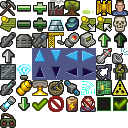
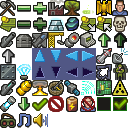
#193 Adds sound and music volume sliders to options.
These sliders do not work yet. Adds two new icons music note and speaker icon.

Changed region(s): [[0.125, 0.875, 0.375, 1.0]]

diff --git a/src/main/java/org/openRealmOfStars/game/States/OptionsView.java b/src/main/java/org/openRealmOfStars/game/States/OptionsView.java
@@ -8,14 +8,17 @@ import javax.swing.Box;
 import javax.swing.BoxLayout;
 import javax.swing.JComboBox;
 
+import org.openRealmOfStars.audio.music.MusicPlayer;
 import org.openRealmOfStars.game.Game;
 import org.openRealmOfStars.game.GameCommands;
 import org.openRealmOfStars.gui.borders.SimpleBorder;
 import org.openRealmOfStars.gui.buttons.SpaceButton;
+import org.openRealmOfStars.gui.icons.Icons;
 import org.openRealmOfStars.gui.infopanel.EmptyInfoPanel;
 import org.openRealmOfStars.gui.infopanel.InfoPanel;
 import org.openRealmOfStars.gui.labels.SpaceLabel;
 import org.openRealmOfStars.gui.panels.BlackPanel;
+import org.openRealmOfStars.gui.panels.SpaceSliderPanel;
 import org.openRealmOfStars.gui.utilies.GuiStatics;
 /**
 *
@@ -55,6 +58,17 @@ public class OptionsView extends BlackPanel {
    * Resolution selector
    */
   private JComboBox<String> resolutionSelection;
+
+  /**
+   * Music volume slider
+   */
+  private SpaceSliderPanel musicSlider;
+
+  /**
+   * Sound volume slider
+   */
+  private SpaceSliderPanel soundSlider;
+
   /**
    * Constructor for OptionsView
    * @param gameFrame Game frame
@@ -104,12 +118,59 @@ public class OptionsView extends BlackPanel {
     resolutionSelection.setForeground(GuiStatics.COLOR_COOL_SPACE_BLUE);
     resolutionSelection.setBorder(new SimpleBorder());
     resolutionSelection.setFont(GuiStatics.getFontCubellan());
+    String actualResolution = game.getWidth() + "x" + game.getHeight();
+    boolean found = false;
+    for (int i = 0; i < resolutions.length; i++) {
+      if (actualResolution.equals(resolutions[i])) {
+        resolutionSelection.setSelectedIndex(i);
+        found = true;
+        break;
+      }
+    }
+    if (!found) {
+      resolutionSelection.setSelectedIndex(resolutions.length - 1);
+    }
     screenPanel.add(resolutionSelection);
     screenPanel.add(Box.createRigidArea(new Dimension(50, 10)));
     label = new SpaceLabel("NOTE: You can also resize game window here for"
         + " custom size.");
     screenPanel.add(label);
+    allOptions.add(Box.createRigidArea(new Dimension(20, 20)));
     allOptions.add(screenPanel);
+    allOptions.add(Box.createRigidArea(new Dimension(20, 20)));
+    InfoPanel musicPanel = new InfoPanel();
+    musicPanel.setTitle("Music Options");
+    musicPanel.setLayout(new BoxLayout(musicPanel, BoxLayout.X_AXIS));
+    label = new SpaceLabel("Music volume:");
+    musicPanel.add(label);
+    musicPanel.add(Box.createRigidArea(new Dimension(10, 10)));
+    musicSlider = new SpaceSliderPanel(
+        GameCommands.COMMAND_MUSIC_VOLUME_DN,
+        GameCommands.COMMAND_MUSIC_VOLUME_UP,
+        Icons.ICON_MUSIC, "Music volume", 0, 100, MusicPlayer.getVolume(),
+        GameCommands.COMMAND_MUSIC_VOLUME, listener);
+    musicSlider.setSliderMajorTick(10);
+    musicSlider.setSliderMinorTick(10);
+    musicPanel.add(musicSlider);
+    allOptions.add(musicPanel);
+    allOptions.add(Box.createRigidArea(new Dimension(20, 20)));
+    InfoPanel soundPanel = new InfoPanel();
+    soundPanel.setTitle("Sound Options");
+    soundPanel.setLayout(new BoxLayout(soundPanel, BoxLayout.X_AXIS));
+    label = new SpaceLabel("Sound volume:");
+    soundPanel.add(label);
+    soundPanel.add(Box.createRigidArea(new Dimension(10, 10)));
+    soundSlider = new SpaceSliderPanel(
+        GameCommands.COMMAND_SOUND_VOLUME_DN,
+        GameCommands.COMMAND_SOUND_VOLUME_UP,
+        Icons.ICON_SOUND, "Sound volume", 0, 100, MusicPlayer.getVolume(),
+        GameCommands.COMMAND_SOUND_VOLUME, listener);
+    soundSlider.setSliderMajorTick(10);
+    soundSlider.setSliderMinorTick(10);
+    soundPanel.add(soundSlider);
+    allOptions.add(soundPanel);
+    allOptions.add(Box.createRigidArea(new Dimension(20,
+        game.getHeight() - 280)));
     base.add(allOptions, BorderLayout.CENTER);
     this.add(base, BorderLayout.CENTER);
   }

diff --git a/src/main/java/org/openRealmOfStars/game/GameCommands.java b/src/main/java/org/openRealmOfStars/game/GameCommands.java
@@ -57,6 +57,36 @@ public final class GameCommands {
   public static final String COMMAND_OPTIONS_VIEW = "OptionsView";
 
   /**
+   * Music volume up
+   */
+  public static final String COMMAND_MUSIC_VOLUME_UP = "OptionsMusicVolumeUp";
+
+  /**
+   * Music volume Down
+   */
+  public static final String COMMAND_MUSIC_VOLUME_DN = "OptionsMusicVolumeDn";
+
+  /**
+   * Music volume
+   */
+  public static final String COMMAND_MUSIC_VOLUME = "OptionsMusicVolume";
+
+  /**
+   * Sound volume up
+   */
+  public static final String COMMAND_SOUND_VOLUME_UP = "OptionsSoundVolumeUp";
+
+  /**
+   * Sound volume Down
+   */
+  public static final String COMMAND_SOUND_VOLUME_DN = "OptionsSoundVolumeDn";
+
+  /**
+   * Sound volume
+   */
+  public static final String COMMAND_SOUND_VOLUME = "OptionsSoundVolume";
+
+  /**
    * End Turn command
    */
   public static final String COMMAND_END_TURN = "EndTurn";

diff --git a/src/main/java/org/openRealmOfStars/gui/icons/Icons.java b/src/main/java/org/openRealmOfStars/gui/icons/Icons.java
@@ -269,6 +269,16 @@ public final class Icons {
   public static final String ICON_SPY_GOGGLES = "IconSpyGoggles";
 
   /**
+   * Music Icon
+   */
+  public static final String ICON_MUSIC = "IconMusic";
+
+  /**
+   * Sound icon
+   */
+  public static final String ICON_SOUND = "IconSound";
+
+  /**
    * List of Icon
    */
   private static ArrayList<Icon16x16> listOfIcons;
@@ -473,6 +483,10 @@ public final class Icons {
     icon = new Icon16x16(image, 7, 6, ICON_CHECKBOX_TICK);
     addIcon(icon);
     icon = new Icon16x16(image, 0, 7, ICON_SPY_GOGGLES);
+    addIcon(icon);
+    icon = new Icon16x16(image, 1, 7, ICON_MUSIC);
+    addIcon(icon);
+    icon = new Icon16x16(image, 2, 7, ICON_SOUND);
     addIcon(icon);
   }
 

diff --git a/src/main/java/org/openRealmOfStars/game/States/CreditsView.java b/src/main/java/org/openRealmOfStars/game/States/CreditsView.java
@@ -104,6 +104,7 @@ public class CreditsView extends BlackPanel {
       + "Defense symbol modified to look like shield by Tuomo Untinen\n"
       + "Original from 141 Military Icons Set by AngryMeteor.com \n"
       + "http://opengameart.org/content/140-military-icons-set-fixed\n\n"
+      + "Music note and Speaker icon by Tuomo Untinen\n\n"
       + "Fonts are under SIL Open Font License, Version 1.1.\n"
       + "# Fonts by\n\n"
       + "Cubellan font by Jyrki Ihalainen (yardan74@gmail.com)\n\n"

diff --git a/AUTHORS.md b/AUTHORS.md
@@ -68,6 +68,8 @@ Defense symbol modified to look like shield by Tuomo Untinen
 Original from 141 Military Icons Set by AngryMeteor.com 
 http://opengameart.org/content/140-military-icons-set-fixed
 
+Music note and Speaker icon by Tuomo Untinen
+
 Fonts are under SIL Open Font License, Version 1.1.
 # Fonts by
 
